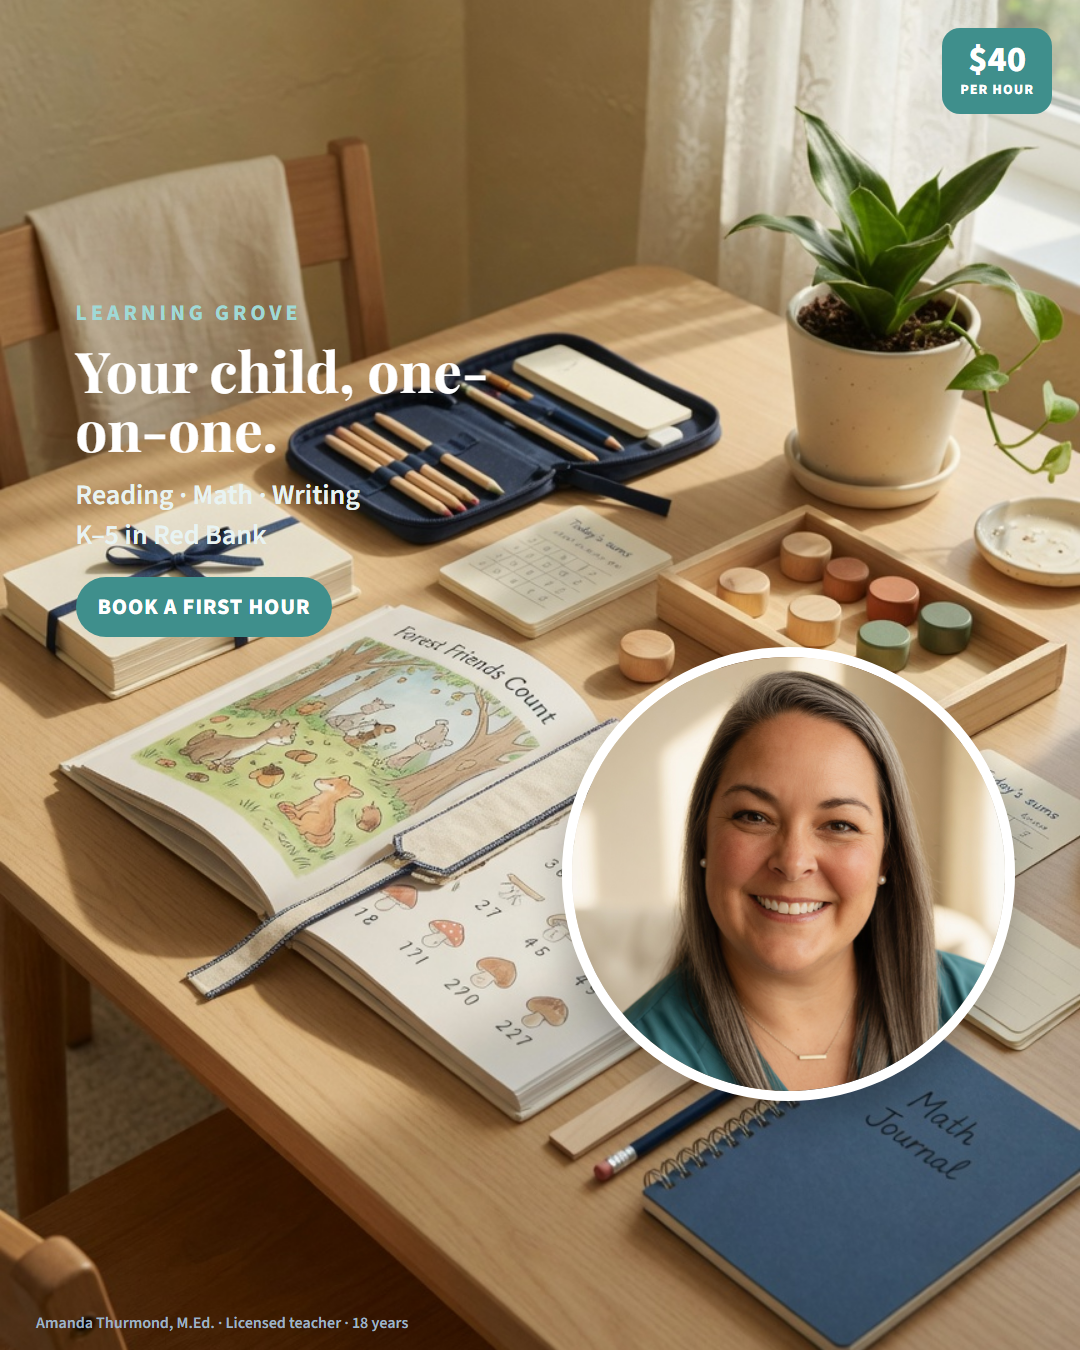
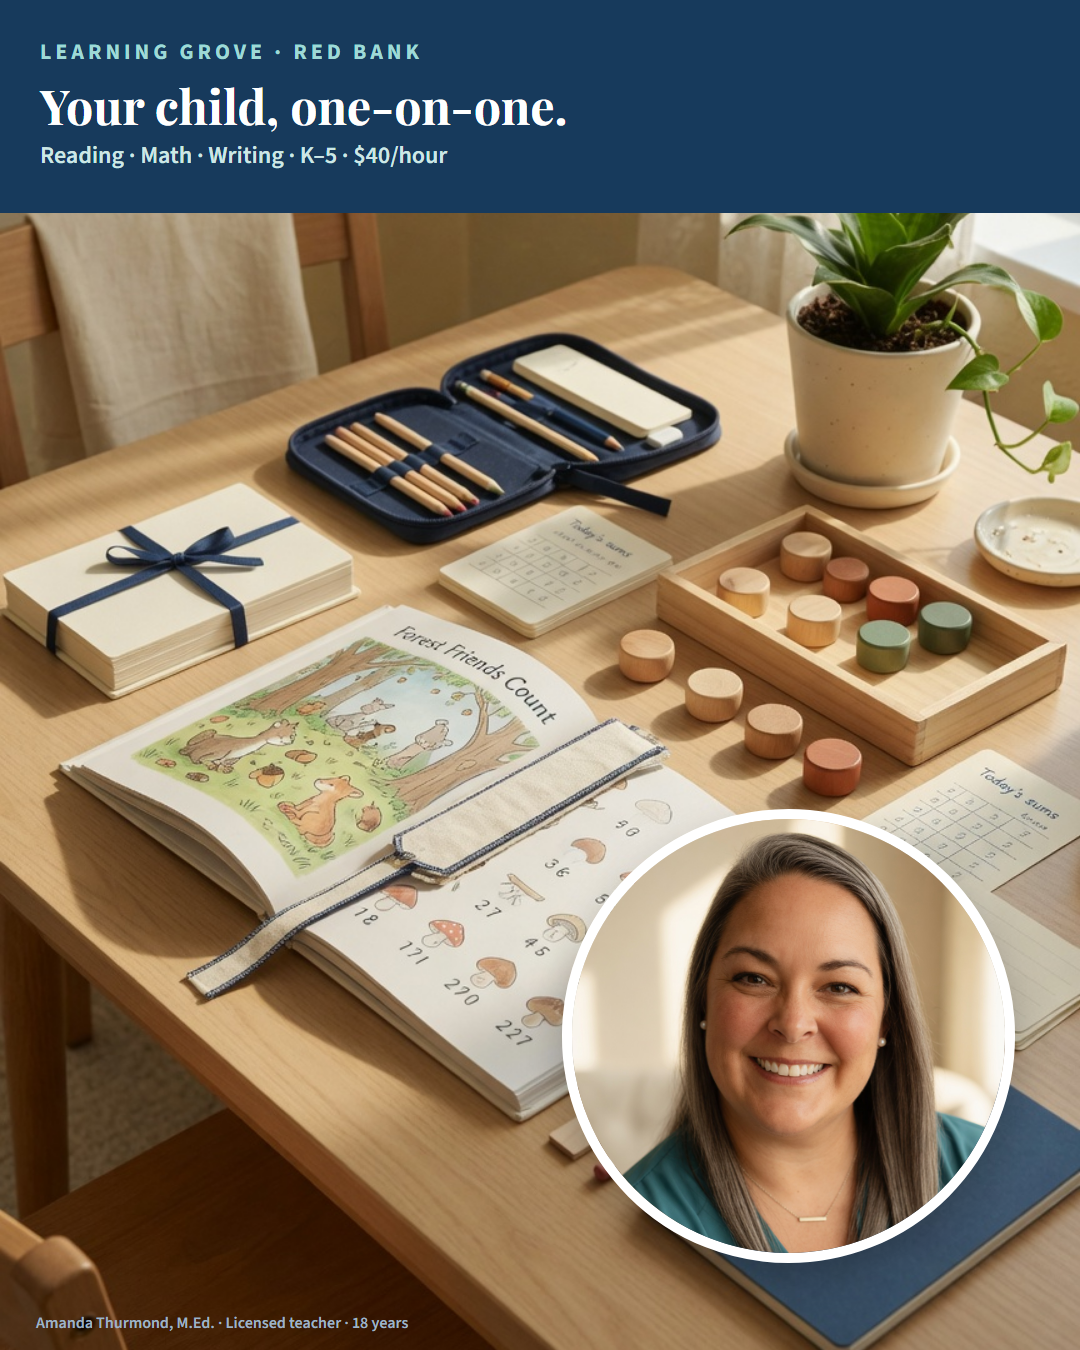
Add Facebook Ads Manager kit: 4:5 feed ads, price ad, paste-ready copy

diff --git a/ads/facebook-ads.html b/ads/facebook-ads.html
@@ -1,0 +1,169 @@
+<!DOCTYPE html>
+<html lang="en">
+<head>
+  <meta charset="UTF-8" />
+  <meta name="viewport" content="width=device-width, initial-scale=1" />
+  <title>Facebook ads · Learning Grove</title>
+  <style>
+    :root { --navy:#173a5c; --teal:#3f8f8c; --cream:#f7f4ee; --ink:#243044; --line:#e4ddd2; --fb:#1877f2; }
+    * { box-sizing: border-box; }
+    body { margin:0; font-family:"Segoe UI",sans-serif; background:var(--cream); color:var(--ink); line-height:1.5; }
+    .wrap { width:min(980px, calc(100% - 32px)); margin:0 auto; }
+    header { background:#1877f2; color:#fff; padding:28px 0; }
+    header a { color:#dbeafe; }
+    h1,h2,h3 { color:var(--navy); }
+    header h1 { color:#fff; margin:6px 0; }
+    .copy { background:#fff; border:1px solid var(--line); border-radius:14px; padding:16px; white-space:pre-wrap; margin:8px 0 20px; }
+    .btn { float:right; background:var(--teal); color:#fff; border:0; border-radius:8px; padding:6px 10px; font-weight:700; cursor:pointer; }
+    .grid { display:grid; grid-template-columns:repeat(3,1fr); gap:14px; }
+    @media (max-width:800px){ .grid{grid-template-columns:1fr 1fr} }
+    figure { margin:0; background:#fff; border:1px solid var(--line); border-radius:12px; overflow:hidden; }
+    figure img { width:100%; display:block; }
+    figcaption { padding:10px 12px; font-size:.88rem; }
+    ol li { margin:8px 0; }
+    .note { background:#e8f1ff; border-radius:12px; padding:14px; }
+    table { width:100%; border-collapse:collapse; background:#fff; }
+    td,th { border:1px solid var(--line); padding:8px 10px; text-align:left; }
+  </style>
+</head>
+<body>
+  <header>
+    <div class="wrap">
+      <p><a href="../index.html">Website</a> · <a href="index.html">All ads</a></p>
+      <h1>Facebook ads — upload these</h1>
+      <p>Three feed ads + one Story. One campaign. Text-to-book. 45 minutes to go live.</p>
+    </div>
+  </header>
+  <main class="wrap">
+    <p class="note"><strong>I cannot publish inside Ads Manager for you</strong> — Facebook requires Mandi’s login. Use this page as the kit: images in <code>exports/</code>, copy below, settings in the table.</p>
+
+    <h2>1. Images to upload</h2>
+    <p>Right-click → Save, or grab them from the <code>ads/exports</code> folder on this computer.</p>
+    <div class="grid">
+      <figure>
+        <img src="exports/fb-45-homework.png" alt="Homework ad" />
+        <figcaption><strong>Ad 1 — homework</strong><br />1080×1350 · Facebook Feed (best size)</figcaption>
+      </figure>
+      <figure>
+        <img src="exports/fb-45-mandi.png" alt="Mandi ad" />
+        <figcaption><strong>Ad 2 — teacher</strong><br />1080×1350 · Feed</figcaption>
+      </figure>
+      <figure>
+        <img src="exports/fb-45-accelerated.png" alt="Accelerated ad" />
+        <figcaption><strong>Ad 3 — accelerated</strong><br />1080×1350 · Feed</figcaption>
+      </figure>
+      <figure>
+        <img src="exports/fb-square-price.png" alt="Price ad" />
+        <figcaption><strong>Ad 4 — price</strong><br />1080×1080 · Feed / Right column</figcaption>
+      </figure>
+      <figure>
+        <img src="exports/story.png" alt="Story ad" />
+        <figcaption><strong>Ad 5 — Story / Reels</strong><br />1080×1920</figcaption>
+      </figure>
+      <figure>
+        <img src="exports/feed-mandi.png" alt="Square Mandi" />
+        <figcaption><strong>Backup square</strong><br />1080×1080</figcaption>
+      </figure>
+    </div>
+
+    <h2>2. Ads Manager setup</h2>
+    <table>
+      <tr><th>Field</th><th>Enter this</th></tr>
+      <tr><td>Objective</td><td>Leads → or Engagement → <strong>Messages</strong> (best). Alternate: Traffic to the website.</td></tr>
+      <tr><td>Conversion</td><td>Messenger / Instagram DMs, or Call</td></tr>
+      <tr><td>Daily budget</td><td>$10–15 to start</td></tr>
+      <tr><td>Location</td><td>Red Bank, TN · <strong>10 mile radius</strong></td></tr>
+      <tr><td>Age</td><td>28–48</td></tr>
+      <tr><td>Detailed targeting</td><td>Parents of early school-age children (6–8) and Parents of preteens (8–12)</td></tr>
+      <tr><td>Placements</td><td>Advantage+ (Feed, Stories, Reels, Instagram)</td></tr>
+      <tr><td>CTA button</td><td><strong>Send message</strong> or <strong>Call now</strong></td></tr>
+      <tr><td>Website (if asked)</td><td>https://daviswright-hash.github.io/mandi-learning-coach/</td></tr>
+      <tr><td>Phone</td><td>(929) 256-3772</td></tr>
+    </table>
+    <p>One campaign → one ad set → <strong>all five ads</strong> in that ad set. Facebook will spend on the winners.</p>
+
+    <h2>3. Copy — one block per ad</h2>
+
+    <h3>Ad 1 · Homework <button class="btn" data-id="a1">Copy</button></h3>
+    <div class="copy" id="a1">Primary text:
+Homework still going at 8pm?
+
+That’s not a lazy kid. That’s a child who needs a plan that fits them.
+
+I’m Mandi Thurmond, M.Ed. — licensed teacher, 18 years in elementary classrooms. Learning Grove is one-on-one K–5 coaching at my house in Red Bank. Reading, math, writing, homework, test prep, and stretch work for accelerated students.
+
+$40/hour. Address when you book.
+
+Text (929) 256-3772
+
+Headline: Homework still going at 8?
+Description: Licensed K–5 teacher in Red Bank. $40/hour.
+CTA: Send message</div>
+
+    <h3>Ad 2 · Licensed teacher <button class="btn" data-id="a2">Copy</button></h3>
+    <div class="copy" id="a2">Primary text:
+Not a college kid with a worksheet packet.
+
+Learning Grove is Mandi Thurmond, M.Ed. — licensed teacher, former literacy lead, 18 years in the classroom — coaching one K–5 student at a time in Red Bank.
+
+Catch-up, stuck, or already ahead. $40/hour. At my house.
+
+Text (929) 256-3772 and tell me the grade.
+
+Headline: A licensed teacher. $40/hour.
+Description: K–5 coaching in Red Bank. One child. One hour.
+CTA: Call now</div>
+
+    <h3>Ad 3 · Accelerated <button class="btn" data-id="a3">Copy</button></h3>
+    <div class="copy" id="a3">Primary text:
+Done in ten minutes — then bored?
+
+Accelerated K–5 students still need a teacher, just a harder one. Deeper reading. Richer math. Real writing. Not extra packets of the same work.
+
+Learning Grove. Mandi Thurmond, M.Ed. $40/hour. Red Bank house.
+
+Text (929) 256-3772
+
+Headline: Already ahead? Let’s stretch.
+Description: Enrichment for K–5. $40/hour in Red Bank.
+CTA: Send message</div>
+
+    <h3>Ad 4 · Price <button class="btn" data-id="a4">Copy</button></h3>
+    <div class="copy" id="a4">Primary text:
+$40 an hour. A licensed teacher. Your child only.
+
+No packages. No franchise. Learning Grove in Red Bank — K–5 reading, math, writing, test prep, and accelerated learners.
+
+Text (929) 256-3772 to book the first hour.
+
+Headline: $40/hour · Red Bank
+Description: One-on-one K–5. Address when you book.
+CTA: Call now</div>
+
+    <h3>Ad 5 · Story / Reels (keep caption short) <button class="btn" data-id="a5">Copy</button></h3>
+    <div class="copy" id="a5">When homework turns into a fight.
+
+Licensed K–5 teacher in Red Bank. $40/hour. Text (929) 256-3772.</div>
+
+    <h2>4. Click-by-click</h2>
+    <ol>
+      <li>Open <a href="https://adsmanager.facebook.com/" target="_blank" rel="noopener">adsmanager.facebook.com</a> while logged in as Mandi, with the Learning Grove Page selected.</li>
+      <li>Create → Messages (or Leads) → Continue.</li>
+      <li>Budget $10–15/day · Advantage campaign on.</li>
+      <li>Audience: Red Bank TN, 10 miles, age 28–48, parents of 6–12 year olds.</li>
+      <li>Add 5 ads. Upload the matching PNG. Paste the matching copy. CTA Send message on 1, 3, 5 and Call now on 2 and 4.</li>
+      <li>Publish. Reply to every message the same evening.</li>
+      <li>Day 5: turn off anything with $0 results. Duplicate the winner twice with a new first line.</li>
+    </ol>
+  </main>
+  <script>
+    document.querySelectorAll(".btn[data-id]").forEach((b) => {
+      b.addEventListener("click", async () => {
+        await navigator.clipboard.writeText(document.getElementById(b.getAttribute("data-id")).innerText);
+        b.textContent = "Copied";
+        setTimeout(() => { b.textContent = "Copy"; }, 1200);
+      });
+    });
+  </script>
+</body>
+</html>

diff --git a/ads/creatives/fb-square-price.html b/ads/creatives/fb-square-price.html
@@ -1,0 +1,29 @@
+<!DOCTYPE html>
+<html lang="en">
+<head>
+  <meta charset="UTF-8" />
+  <title>FB 1:1 price</title>
+  <link rel="stylesheet" href="ad.css" />
+  <link href="https://fonts.googleapis.com/css2?family=Playfair+Display:wght@700&family=Source+Sans+3:wght@600;700;800&display=swap" rel="stylesheet" />
+  <style>
+    html,body,.frame{width:1080px;height:1080px;background:#173a5c}
+    .inner{position:absolute;inset:0;display:flex;flex-direction:column;justify-content:center;align-items:flex-start;padding:80px;color:#fff}
+    .inner h1{font-size:70px;margin:12px 0 24px}
+    .inner .sub{font-size:32px}
+    .big{font-family:"Playfair Display",Georgia,serif;font-size:180px;line-height:.85;font-weight:700}
+    .big span{font-size:64px;vertical-align:super}
+  </style>
+</head>
+<body>
+  <div class="frame">
+    <p class="logo">Learning Grove</p>
+    <div class="inner">
+      <p class="kicker">Simple rate · Red Bank</p>
+      <p class="big"><span>$</span>40</p>
+      <h1>per hour. One child. A licensed teacher.</h1>
+      <p class="sub">K–5 reading, math, writing, test prep, accelerated learners.</p>
+      <span class="cta">Text (929) 256-3772</span>
+    </div>
+  </div>
+</body>
+</html>

diff --git a/ads/creatives/fb-45-accelerated.html b/ads/creatives/fb-45-accelerated.html
@@ -1,0 +1,26 @@
+<!DOCTYPE html>
+<html lang="en">
+<head>
+  <meta charset="UTF-8" />
+  <title>FB 4:5 accelerated</title>
+  <link rel="stylesheet" href="ad.css" />
+  <link href="https://fonts.googleapis.com/css2?family=Playfair+Display:wght@700&family=Source+Sans+3:wght@600;700;800&display=swap" rel="stylesheet" />
+  <style>
+    html,body,.frame{width:1080px;height:1350px}
+    h1{font-size:64px}
+    .portrait-wrap{bottom:8%; width:46%}
+    .left-copy{top:auto; bottom:8%; right:50%; padding-bottom:20px}
+  </style>
+</head>
+<body>
+  <div class="frame">
+    <img class="bg" src="../photos/calm-table.jpg" alt="" />
+    <div class="price"><b>$40</b><span>per hour</span></div>
+    <div class="bar">
+      <p class="kicker">Accelerated K–5</p>
+      <h1>Already done in ten minutes?</h1>
+      <p class="sub">Stretch work — not extra packets. Red Bank.</p>
+    </div>
+  </div>
+</body>
+</html>

diff --git a/ads/creatives/fb-45-homework.html b/ads/creatives/fb-45-homework.html
@@ -1,0 +1,26 @@
+<!DOCTYPE html>
+<html lang="en">
+<head>
+  <meta charset="UTF-8" />
+  <title>FB 4:5 homework</title>
+  <link rel="stylesheet" href="ad.css" />
+  <link href="https://fonts.googleapis.com/css2?family=Playfair+Display:wght@700&family=Source+Sans+3:wght@600;700;800&display=swap" rel="stylesheet" />
+  <style>
+    html,body,.frame{width:1080px;height:1350px}
+    h1{font-size:72px}
+    .sub{font-size:30px}
+  </style>
+</head>
+<body>
+  <div class="frame">
+    <img class="bg" src="../photos/homework-night.jpg" alt="" />
+    <div class="price"><b>$40</b><span>per hour</span></div>
+    <div class="scrim">
+      <p class="kicker">Red Bank · Grades K–5</p>
+      <h1>Homework still going at 8?</h1>
+      <p class="sub">A licensed teacher. One child. One quiet hour.</p>
+      <span class="cta">Text (929) 256-3772</span>
+    </div>
+  </div>
+</body>
+</html>

diff --git a/ads/creatives/fb-45-mandi.html b/ads/creatives/fb-45-mandi.html
@@ -1,0 +1,24 @@
+<!DOCTYPE html>
+<html lang="en">
+<head>
+  <meta charset="UTF-8" />
+  <title>FB 4:5 Mandi</title>
+  <link rel="stylesheet" href="ad.css" />
+  <link href="https://fonts.googleapis.com/css2?family=Playfair+Display:wght@700&family=Source+Sans+3:wght@600;700;800&display=swap" rel="stylesheet" />
+  <style>
+    html,body,.frame{width:1080px;height:1350px}
+    .bg{object-position:center 12%}
+    h1{font-size:62px}
+  </style>
+</head>
+<body>
+  <div class="frame">
+    <img class="bg" src="../photos/mandi-warm.jpg" alt="" />
+    <p class="logo">Learning Grove</p>
+    <div class="bar">
+      <h1>Not a college kid. A licensed teacher.</h1>
+      <p class="sub">K–5 · $40/hour · Red Bank house</p>
+    </div>
+  </div>
+</body>
+</html>

diff --git a/facebook/index.html b/facebook/index.html
@@ -41,7 +41,7 @@
 <body>
   <header>
     <div class="wrap">
-      <p><a href="../index.html">← Back to the website</a></p>
+      <p><a href="../index.html">← Back to the website</a> · <a href="../ads/facebook-ads.html">Facebook ads kit</a></p>
       <h1>Facebook page kit</h1>
       <p>Everything needed to publish the Learning Grove Facebook Page in about ten minutes. Facebook does not let a website create the Page for you — Mandi signs in and pastes this copy.</p>
     </div>
